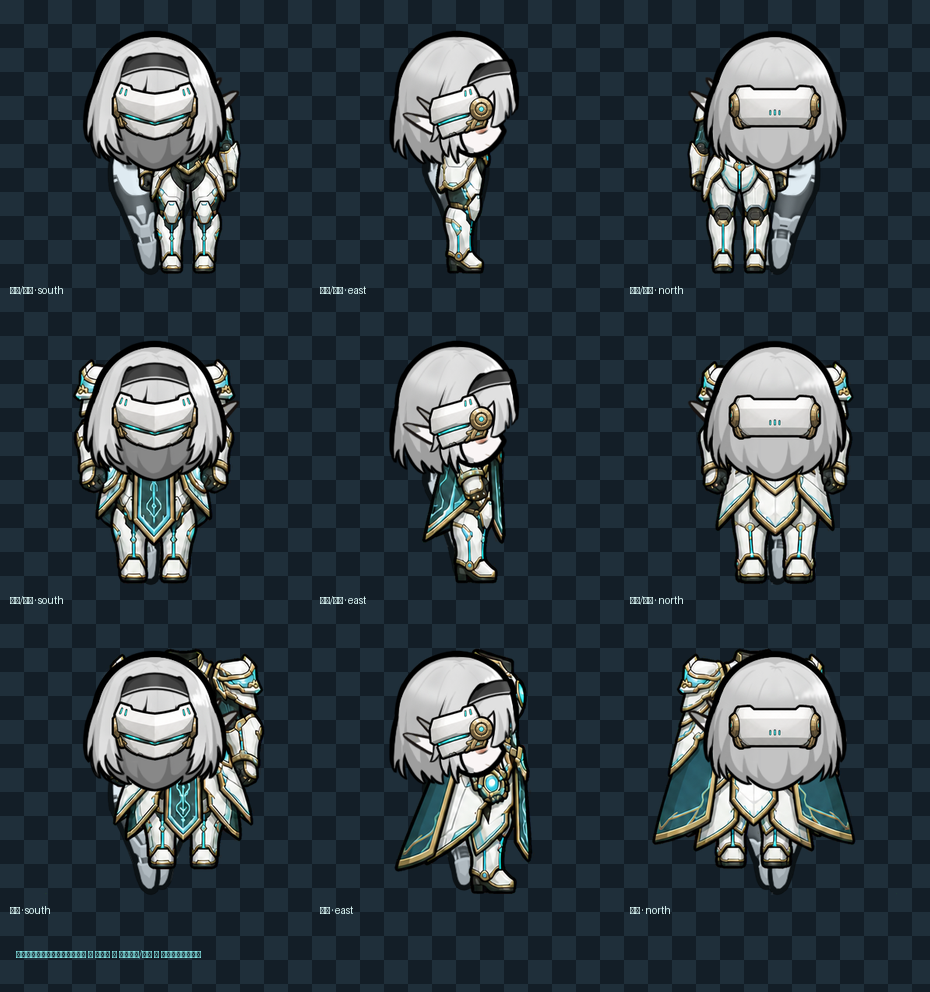
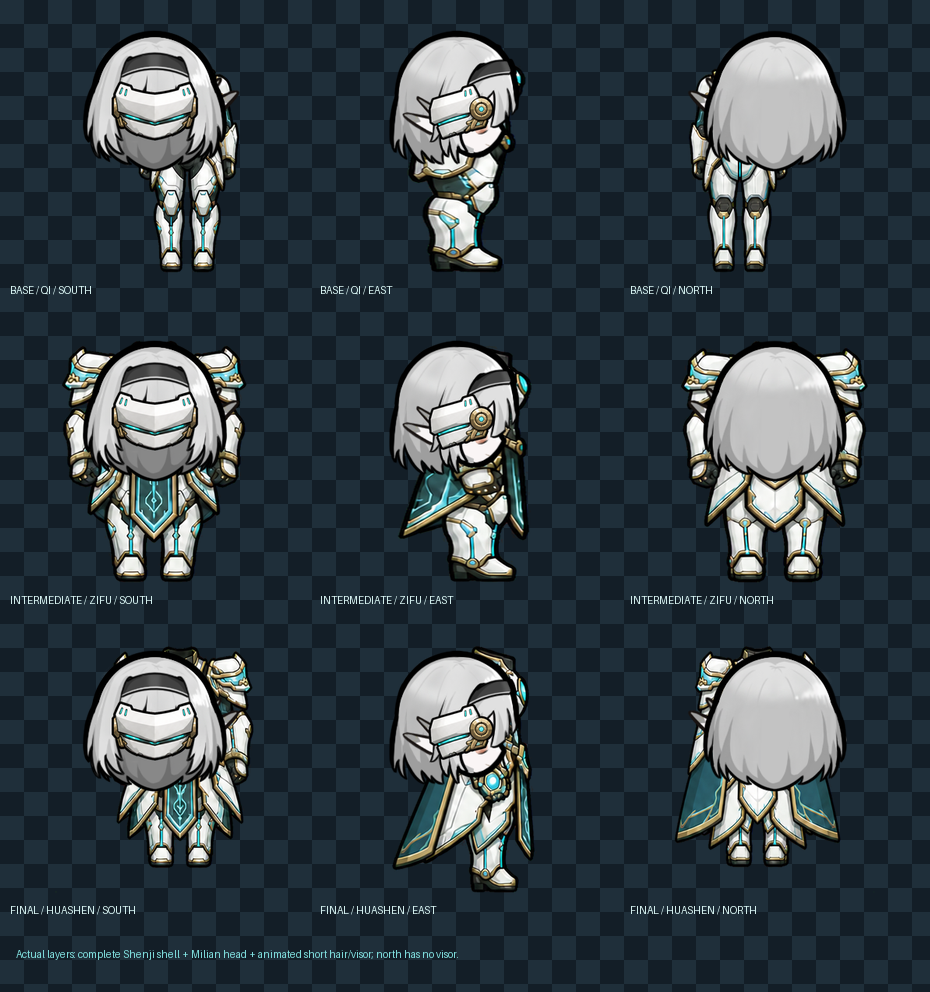
Fix Shenji directional armor and weapon proportions

diff --git a/Source/import_shenji_generated_armor_v2.py b/Source/import_shenji_generated_armor_v2.py
@@ -61,47 +61,41 @@ def place_on_game_canvas(sprite: Image.Image, max_width: int, target_height: int
     return canvas
 
 
-def fit_armor(sprite: Image.Image, stage: int, direction: str) -> Image.Image:
-    heights = {1: 270, 2: 295, 3: 315}
-    widths = {1: 242, 2: 298, 3: 326}
-    if direction == "east":
-        widths = {1: 198, 2: 222, 3: 242}
-    return place_on_game_canvas(sprite, widths[stage], heights[stage], 474)
+def place_exact_on_game_canvas(sprite: Image.Image, target_width: int, target_height: int, bottom: int, center_x: int = 256) -> Image.Image:
+    """Fit generated apparel to a measured Milian worn-graphic silhouette.
 
-
-def make_inner_suit(direction: str) -> Image.Image:
-    """Opaque fitted undersuit using the exact Milian body silhouette.
-
-    The plate art intentionally has open joints.  Without an undersuit those
-    openings reveal the nude race texture.  Deriving the mask from the actual
-    Milian body keeps full coverage in every direction without making the plate
-    silhouette artificially bulky.
+    The generated side cells contain much more transparent horizontal padding
+    than their south/north counterparts.  A single aspect-preserving max width
+    therefore produced a 96 px-wide side shell in game.  Worn graphics are
+    directional sprites, so each direction needs its own measured silhouette.
     """
-    body = load_layer(REF / "Milian" / "Pawn" / "Body" / f"Naked_Female_{direction}.png")
-    rgba = np.asarray(body, dtype=np.uint8)
-    alpha = rgba[..., 3]
-    luminance = (rgba[..., 0].astype(np.float32) * .25 +
-                 rgba[..., 1].astype(np.float32) * .60 +
-                 rgba[..., 2].astype(np.float32) * .15) / 255.0
-    # Preserve the body's line work, but map all exposed skin to a dark cyan
-    # flexible armor weave matching the generated white plates.
-    shade = np.clip(luminance, 0.0, 1.0)
-    out = np.zeros_like(rgba)
-    # Near-black source line art remains a dark seam; the original pale body
-    # becomes an ivory/cyan armored fabric.  This reads as clothing rather than
-    # reproducing the nude silhouette in a different dark colour.
-    out[..., 0] = (12 + shade * 218).astype(np.uint8)
-    out[..., 1] = (18 + shade * 224).astype(np.uint8)
-    out[..., 2] = (21 + shade * 228).astype(np.uint8)
-    out[..., 3] = alpha
-    return Image.fromarray(out, "RGBA")
+    sprite = sprite.resize((target_width, target_height), Image.Resampling.LANCZOS)
+    canvas = Image.new("RGBA", (512, 512), (0, 0, 0, 0))
+    canvas.alpha_composite(sprite, (center_x - target_width // 2, bottom - target_height))
+    return canvas
+
+
+def fit_armor(sprite: Image.Image, stage: int, direction: str) -> Image.Image:
+    # Calibrated against Milian_GuardArmor's actual 512 px worn graphics.
+    # In particular the east shell must be broad enough to form a complete
+    # torso/hip silhouette, rather than a narrow plate pasted onto the body.
+    sizes = {
+        "south": {1: (218, 304), 2: (238, 310), 3: (254, 316)},
+        "east":  {1: (158, 304), 2: (172, 310), 3: (186, 316)},
+        "north": {1: (220, 304), 2: (240, 310), 3: (256, 316)},
+    }
+    width, height = sizes[direction][stage]
+    return place_exact_on_game_canvas(sprite, width, height, 472)
 
 
 def build_integrated_hair(direction: str, visor: Image.Image):
     """Bake the visor into Milira's animated front-hair layer."""
     front = load_layer(REF / "Milian" / "Pawn" / "Hair" / "Milian_HairN1" / f"MiliraHair4_{direction}.png")
     back = load_layer(REF / "Milira" / "Pawn" / "Hair" / "HairBackGround" / f"MiliraHairBG4_{direction}.png")
-    front = Image.alpha_composite(front, visor)
+    # The north view is the back of the head.  Drawing a front visor there
+    # produced a conspicuous rectangular helmet plate; only south/east need it.
+    if direction != "north":
+        front = Image.alpha_composite(front, visor)
     front.save(HAIR_OUT / f"ShenjiHairFront_{direction}.png")
     back.save(HAIR_OUT / f"ShenjiHairBack_{direction}.png")
     return front, back
@@ -124,7 +118,6 @@ def load_layer(path: Path) -> Image.Image:
 
 def preview(armor: Image.Image, front_hair: Image.Image, back_hair: Image.Image, direction: str) -> Image.Image:
     layers = (
-        load_layer(REF / "Milian" / "Pawn" / "Body" / f"Naked_Female_{direction}.png"),
         armor,
         load_layer(REF / "Milian" / "Pawn" / "Head" / f"MilianHeadN1_{direction}.png"),
         back_hair,
@@ -154,6 +147,13 @@ def main():
     armor_atlas = Image.open(ARMOR_ATLAS).convert("RGBA")
     visor_atlas = Image.open(VISOR_ATLAS).convert("RGBA")
 
+    # The generated armor is a complete body shell; suppress the inherited nude
+    # Milian body at PawnKind life-stage level instead of trying to paint over it.
+    transparent_body = Image.new("RGBA", (64, 64), (0, 0, 0, 0))
+    for direction in DIRECTIONS:
+        transparent_body.save(HAIR_OUT / f"ShenjiTransparentBody_{direction}.png")
+    transparent_body.save(HAIR_OUT / "ShenjiTransparentBody.png")
+
     visors = {}
     hair = {}
     for col, direction in enumerate(DIRECTIONS):
@@ -168,8 +168,7 @@ def main():
     previews = {}
     for row, (stage, name) in enumerate(TIERS):
         for col, direction in enumerate(DIRECTIONS):
-            plates = fit_armor(extract_cell(armor_atlas, row, col, 3, 3), stage, direction)
-            armor = Image.alpha_composite(make_inner_suit(direction), plates)
+            armor = fit_armor(extract_cell(armor_atlas, row, col, 3, 3), stage, direction)
             armor.save(OUT / f"ShenjiArmor_{name}_Female_{direction}.png")
             previews[(stage, direction)] = preview(armor, hair[direction][0], hair[direction][1], direction)
         Image.open(OUT / f"ShenjiArmor_{name}_Female_south.png").save(OUT / f"ShenjiArmor_{name}.png")
@@ -177,13 +176,13 @@ def main():
     tile = 310
     qa = checker((tile * 3, tile * 3 + 62))
     draw = ImageDraw.Draw(qa)
-    labels = {1: "练气/筑基", 2: "紫府/金丹", 3: "化神"}
+    labels = {1: "BASE / QI", 2: "INTERMEDIATE / ZIFU", 3: "FINAL / HUASHEN"}
     for row, (stage, _) in enumerate(TIERS):
         for col, direction in enumerate(DIRECTIONS):
             crop = previews[(stage, direction)].crop((95, 125, 417, 510)).resize((251, 300), Image.Resampling.LANCZOS)
             qa.alpha_composite(crop, (col * tile + 29, row * tile + 2))
-            draw.text((col * tile + 10, row * tile + 284), f"{labels[stage]} · {direction}", fill=(219, 247, 245, 255))
-    draw.text((16, tile * 3 + 18), "游戏实际分层合成：米莉安身体 → 神机甲 → 固定短发/头部 → 独立遮眼战术目镜", fill=(129, 226, 225, 255))
+            draw.text((col * tile + 10, row * tile + 284), f"{labels[stage]} / {direction.upper()}", fill=(219, 247, 245, 255))
+    draw.text((16, tile * 3 + 18), "Actual layers: complete Shenji shell + Milian head + animated short hair/visor; north has no visor.", fill=(129, 226, 225, 255))
     qa.save(QA)
     print(QA)
 

diff --git a/Source/prepare_shenji_cannon_assets.py b/Source/prepare_shenji_cannon_assets.py
@@ -49,8 +49,11 @@ def normalize_weapon(cell: Image.Image) -> Image.Image:
     if not bbox:
         raise RuntimeError("A weapon cell is empty after chroma removal")
     sprite = cell.crop(bbox)
-    canvas = Image.new("RGBA", (512, 256), (0, 0, 0, 0))
-    max_w, max_h = 472, 164
+    # Graphic_Single is rendered on a square quad.  The previous 512x256 files
+    # were stretched vertically by RimWorld, making the cannon nearly as tall
+    # as the pawn.  Milira's native carried weapons use a 512x512 canvas.
+    canvas = Image.new("RGBA", (512, 512), (0, 0, 0, 0))
+    max_w, max_h = 400, 138
     scale = min(max_w / sprite.width, max_h / sprite.height)
     size = (max(1, round(sprite.width * scale)), max(1, round(sprite.height * scale)))
     sprite = sprite.resize(size, Image.Resampling.LANCZOS)
@@ -74,10 +77,12 @@ def loadout_preview(weapon: Image.Image, armor_name: str, scale: float) -> Image
 
     armor_root = ROOT / "Content" / "Textures" / "Yunjianzi" / "Apparel" / "Shenji"
     armor = load_layer(armor_root / f"ShenjiArmor_{armor_name}_Female_east.png")
-    visor = load_layer(armor_root / "ShenjiVisor_Female_east.png")
-    pawn = preview(armor, visor, "east")
-    gun = weapon.crop(weapon.getbbox())
-    target_w = round(215 * scale)
+    pawn_root = ROOT / "Content" / "Textures" / "Yunjianzi" / "Pawn" / "Shenji"
+    front = load_layer(pawn_root / "ShenjiHairFront_east.png")
+    back = load_layer(pawn_root / "ShenjiHairBack_east.png")
+    pawn = preview(armor, front, back, "east")
+    gun = weapon.crop(alpha_bbox(weapon))
+    target_w = round(178 * scale)
     target_h = max(1, round(gun.height * target_w / gun.width))
     gun = gun.resize((target_w, target_h), Image.Resampling.LANCZOS)
     gun = gun.rotate(18, resample=Image.Resampling.BICUBIC, expand=True)
